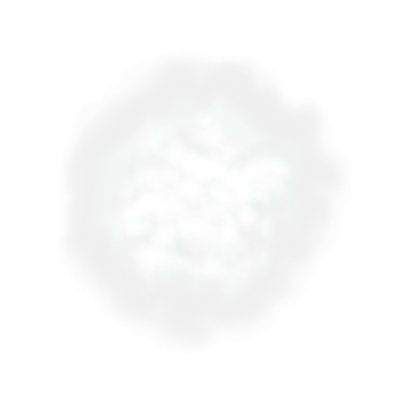
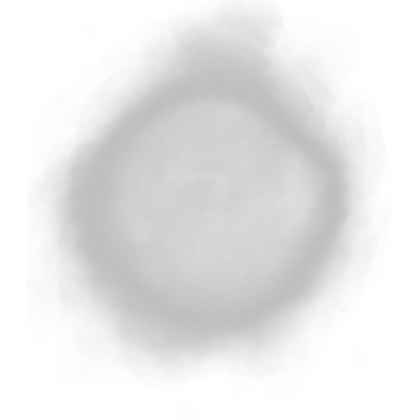
Derp

diff --git a/js/visual/gl/particles.js b/js/visual/gl/particles.js
@@ -70,8 +70,18 @@ let Particles = new function() {
 
         let speed = data.getSpeed();
         adjustedSpeed = Math.max(speed * multiplier, Config.particleBaseSpeed);
-        Particles.particlesGeom.attributes.position.array[VERTEX_SIZE * i + 0] += data.getTrajectory().x * adjustedSpeed;
-        Particles.particlesGeom.attributes.position.array[VERTEX_SIZE * i + 1] += data.getTrajectory().y * adjustedSpeed;
+
+        let phaseX = Math.sin(MathConstants.TWO_PI * data.getPhase().x) * data.getPhaseAmplitude().x * multiplier;
+        let phaseY = Math.sin(MathConstants.TWO_PI * data.getPhase().y) * data.getPhaseAmplitude().y * multiplier;
+
+        let x = Particles.particlesGeom.attributes.position.array[VERTEX_SIZE * i + 0]
+                + data.getTrajectory().x * adjustedSpeed
+                + phaseX;
+        let y = Particles.particlesGeom.attributes.position.array[VERTEX_SIZE * i + 1]
+                + data.getTrajectory().y * adjustedSpeed
+                + phaseY;
+        Particles.particlesGeom.attributes.position.array[VERTEX_SIZE * i + 0] = x;
+        Particles.particlesGeom.attributes.position.array[VERTEX_SIZE * i + 1] = y;
         Particles.particlesGeom.attributes.position.array[VERTEX_SIZE * i + 2] += multiplier * speed;
         if (Particles.particlesGeom.attributes.position.array[VERTEX_SIZE * i + 2] + Config.particleDespawnBuffer > Config.cameraZPlane) {
             despawnParticle(i);
@@ -81,6 +91,11 @@ let Particles = new function() {
                 Particles.particlesGeom.attributes.alpha.needsUpdate = true;
             }
         }
+
+        data.augmentPhase(
+            data.getPhaseSpeed().x * multiplier,
+            data.getPhaseSpeed().y * multiplier
+        );
     }
 
     let initializeParticles = function() {
@@ -91,7 +106,7 @@ let Particles = new function() {
             posArr[VERTEX_SIZE * i + 0] = 0;
             posArr[VERTEX_SIZE * i + 1] = 0;
             posArr[VERTEX_SIZE * i + 2] = 0;
-            sizeArr[i] = Math.random() * (Config.particleSizeMax - Config.particleSizeMin) + Config.particleSizeMin;
+            sizeArr[i] = Util.random(Config.particleSizeMin, Config.particleSizeMax);
             alphaArr[i] = 0;
 
             resetVelocity(i);
@@ -126,14 +141,26 @@ let Particles = new function() {
     }
 
     let resetVelocity = function(i) {
-        let r = (Config.particleRadiusMax - Config.particleRadiusMin) * Math.random() + Config.particleRadiusMin;
+        let r = Util.random(Config.particleRadiusMin, Config.particleRadiusMax);
         let theta = MathConstants.TWO_PI * Math.random();
         let trajectory = new THREE.Vector2(
             r * Math.cos(theta) / Config.cameraZPlane,
             r * Math.sin(theta) / Config.cameraZPlane
         );
-        let speed = Math.random() * (Config.particleSpeedMultMax - Config.particleSpeedMultMin) + Config.particleSpeedMultMin;
-        particleData[i] = new ParticleData(trajectory, speed);
+        
+        let speed = Util.random(Config.particleSpeedMultMin, Config.particleSpeedMultMax);
+
+        let phaseAmp = new THREE.Vector2(
+            Util.random(Config.particlePhaseAmplitudeMin, Config.particlePhaseAmplitudeMax),
+            Util.random(Config.particlePhaseAmplitudeMin, Config.particlePhaseAmplitudeMax)
+        );
+
+        let phaseSpeed = new THREE.Vector2(
+            Util.random(Config.particlePhaseSpeedMin, Config.particlePhaseSpeedMax),
+            Util.random(Config.particlePhaseSpeedMin, Config.particlePhaseSpeedMax)
+        );
+
+        particleData[i] = new ParticleData(trajectory, speed, phaseAmp, phaseSpeed);
     }
 
 }

diff --git a/js/model/particle_data.js b/js/model/particle_data.js
@@ -1,0 +1,41 @@
+function ParticleData(trajectory, speed, phaseAmp, phaseSpeed) {
+    this.trajectory = trajectory; // the unit vector representing the trajectory of the particle
+    this.speed = speed; // the speed multiplier of the particle
+    this.phaseAmp = phaseAmp; // the amplitude of the particle's phase
+    this.phaseSpeed = phaseSpeed; // the speed of the particle's phase
+    this.phase = new THREE.Vector2(); // the current phase of the particle
+    this.spawned = false; // whether the particle has been "spawned" yet
+}
+
+ParticleData.prototype.getTrajectory = function() {
+    return this.trajectory;
+}
+
+ParticleData.prototype.getSpeed = function() {
+    return this.speed;
+}
+
+ParticleData.prototype.getPhaseAmplitude = function() {
+    return this.phaseAmp;
+}
+
+ParticleData.prototype.getPhaseSpeed = function() {
+    return this.phaseSpeed;
+}
+
+ParticleData.prototype.getPhase = function() {
+    return this.phase;
+}
+
+ParticleData.prototype.augmentPhase = function(stepX, stepY) {
+    this.phase.x = (this.phase.x + stepX) % 1;
+    this.phase.y = (this.phase.y + stepY) % 1;
+}
+
+ParticleData.prototype.isSpawned = function() {
+    return this.spawned;
+}
+
+ParticleData.prototype.setSpawned = function() {
+    this.spawned = true;
+}

diff --git a/js/misc/config.js b/js/misc/config.js
@@ -24,10 +24,10 @@ let Config = new function() {
 
     // particle config
     this.maxParticleCount = 1600; // particle count at 1080p
-    this.particleMaxSpawnRate = 6; // max particles to spawn each frame. this takes effect during particle initlzn.
+    this.particleMaxSpawnRate = 12; // max particles to spawn each frame. this takes effect during particle initlzn.
     this.particleOpacity = 1;
-    this.particleSizeMin = 3;
-    this.particleSizeMax = 12;
+    this.particleSizeMin = 5;
+    this.particleSizeMax = 14;
     this.cameraZPlane = 200; // the z-plane on which to place the camera
     this.particleDespawnBuffer = 0; // distance from the camera z-plane before despawning particles
     this.particleRadiusMin = 30; // the minimum radius of the particle cone at the z-plane intersecting the camera
@@ -35,6 +35,10 @@ let Config = new function() {
     this.particleBaseSpeed = 0.3;
     this.particleSpeedMultMin = 2;
     this.particleSpeedMultMax = 3;
+    this.particlePhaseSpeedMin = 0.1;
+    this.particlePhaseSpeedMax = 0.2;
+    this.particlePhaseAmplitudeMin = 0;
+    this.particlePhaseAmplitudeMax = 0.75;
 
     // gui config
     this.guiTimeout = 2000;
